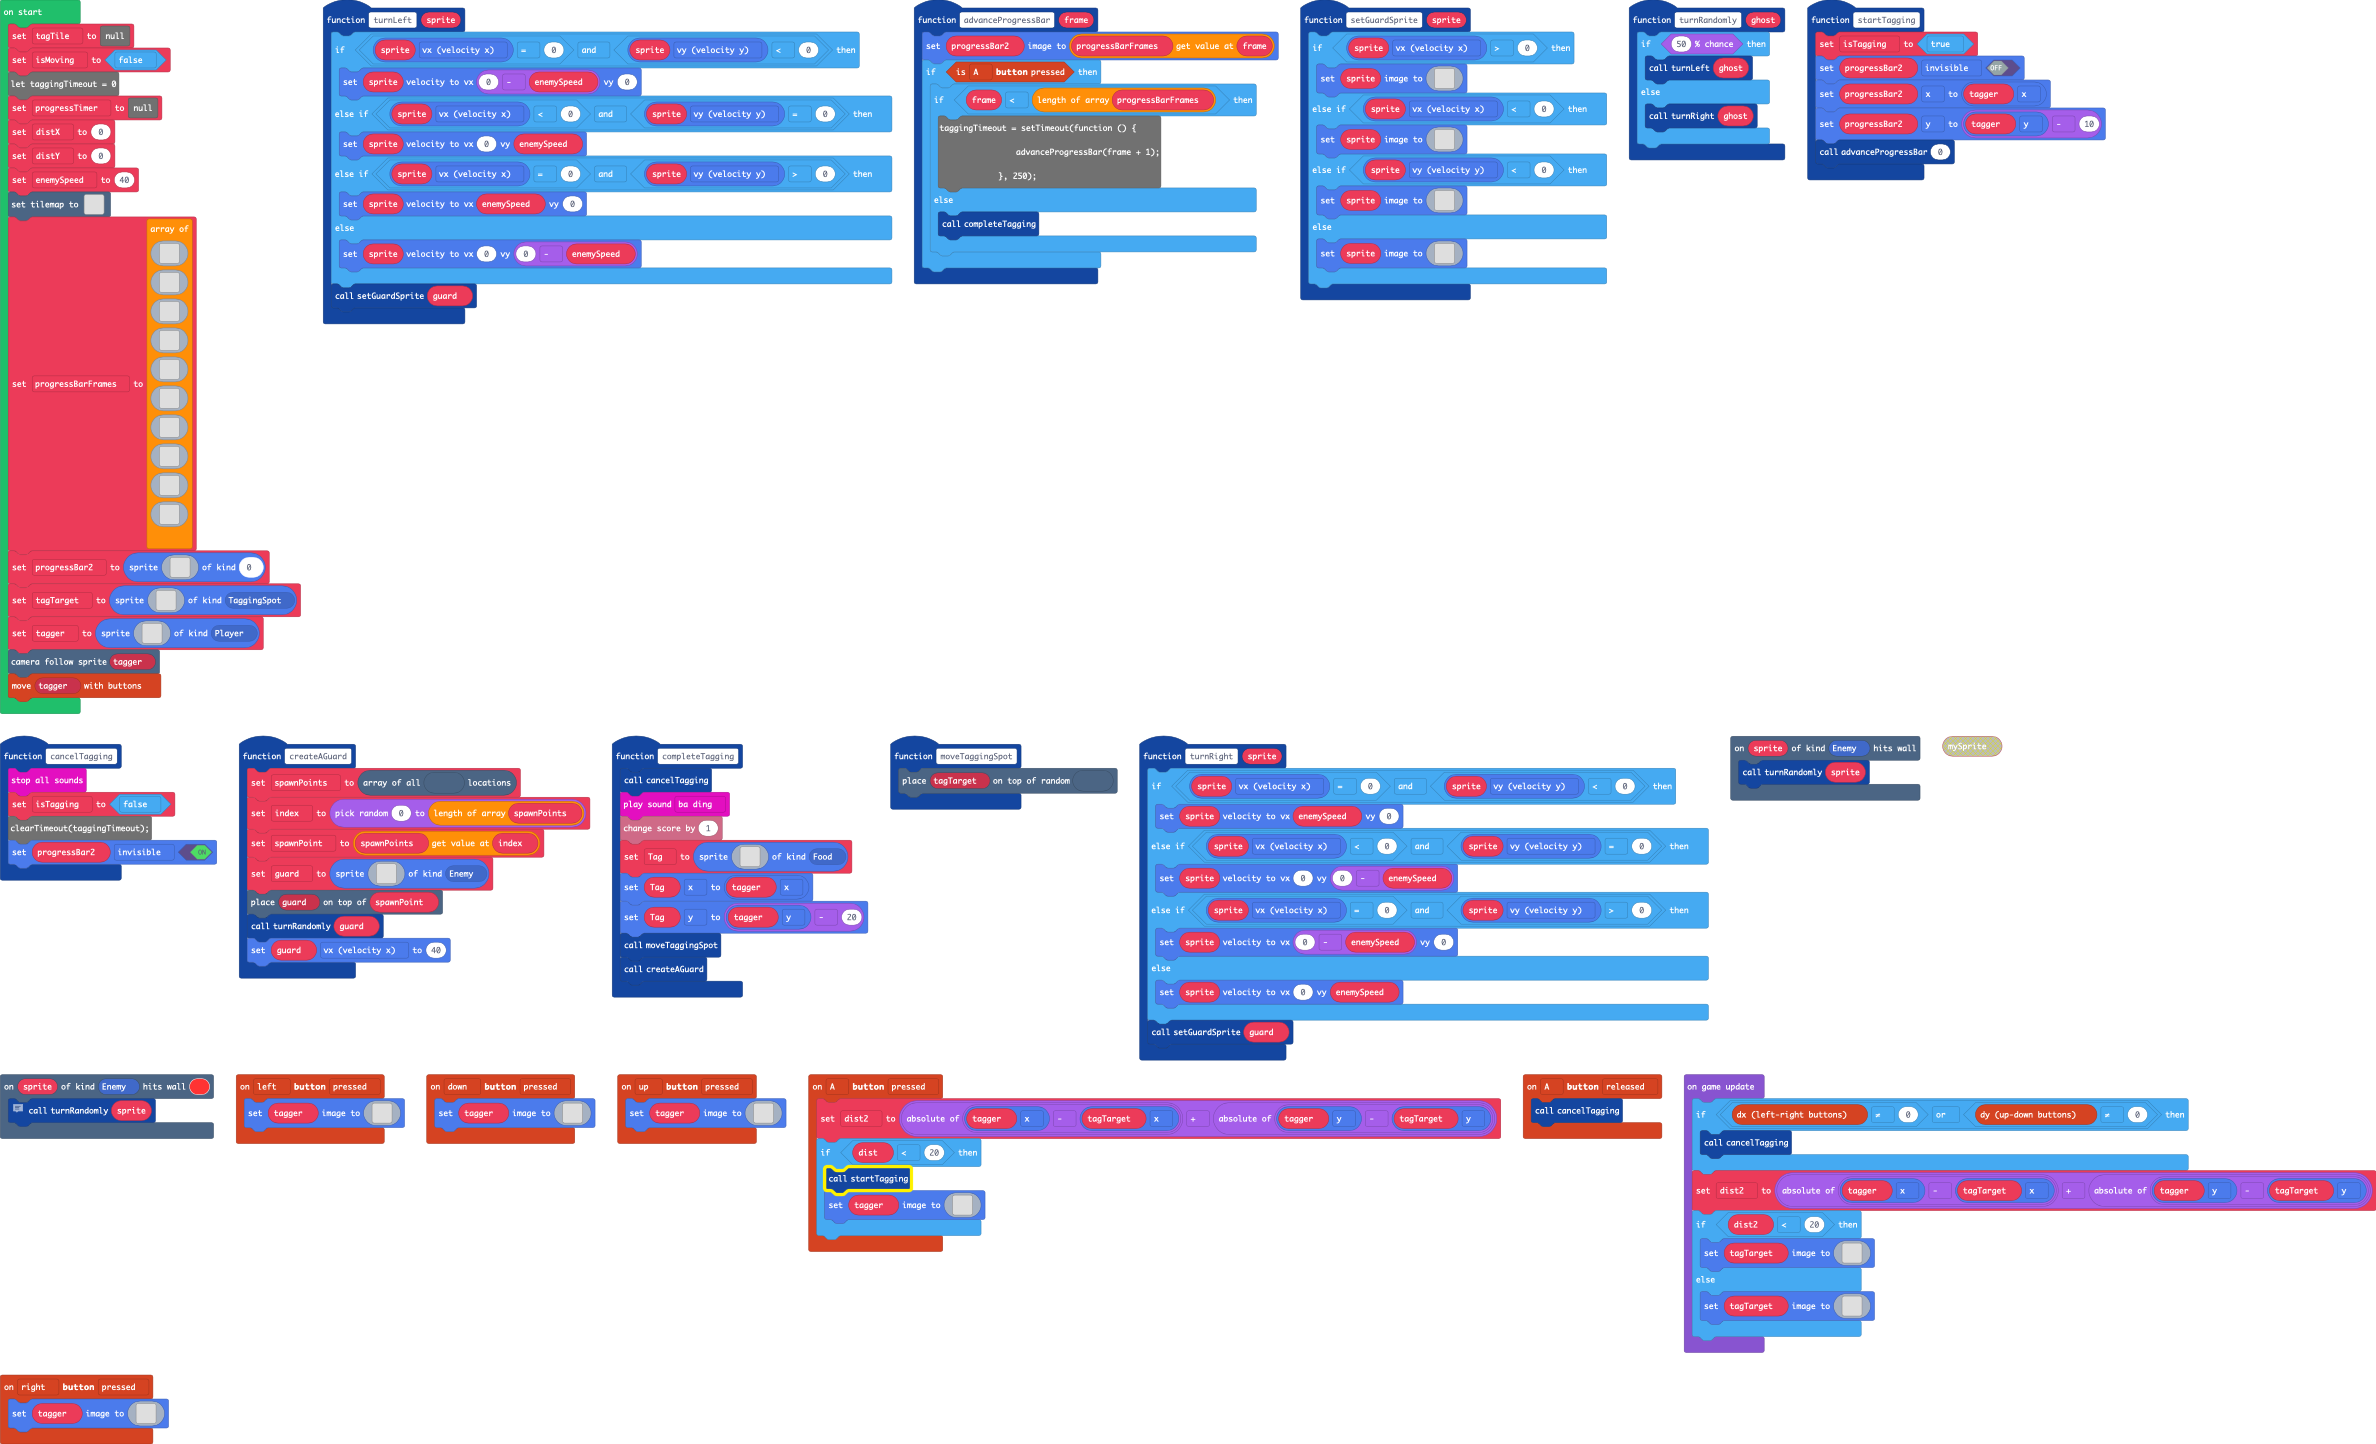
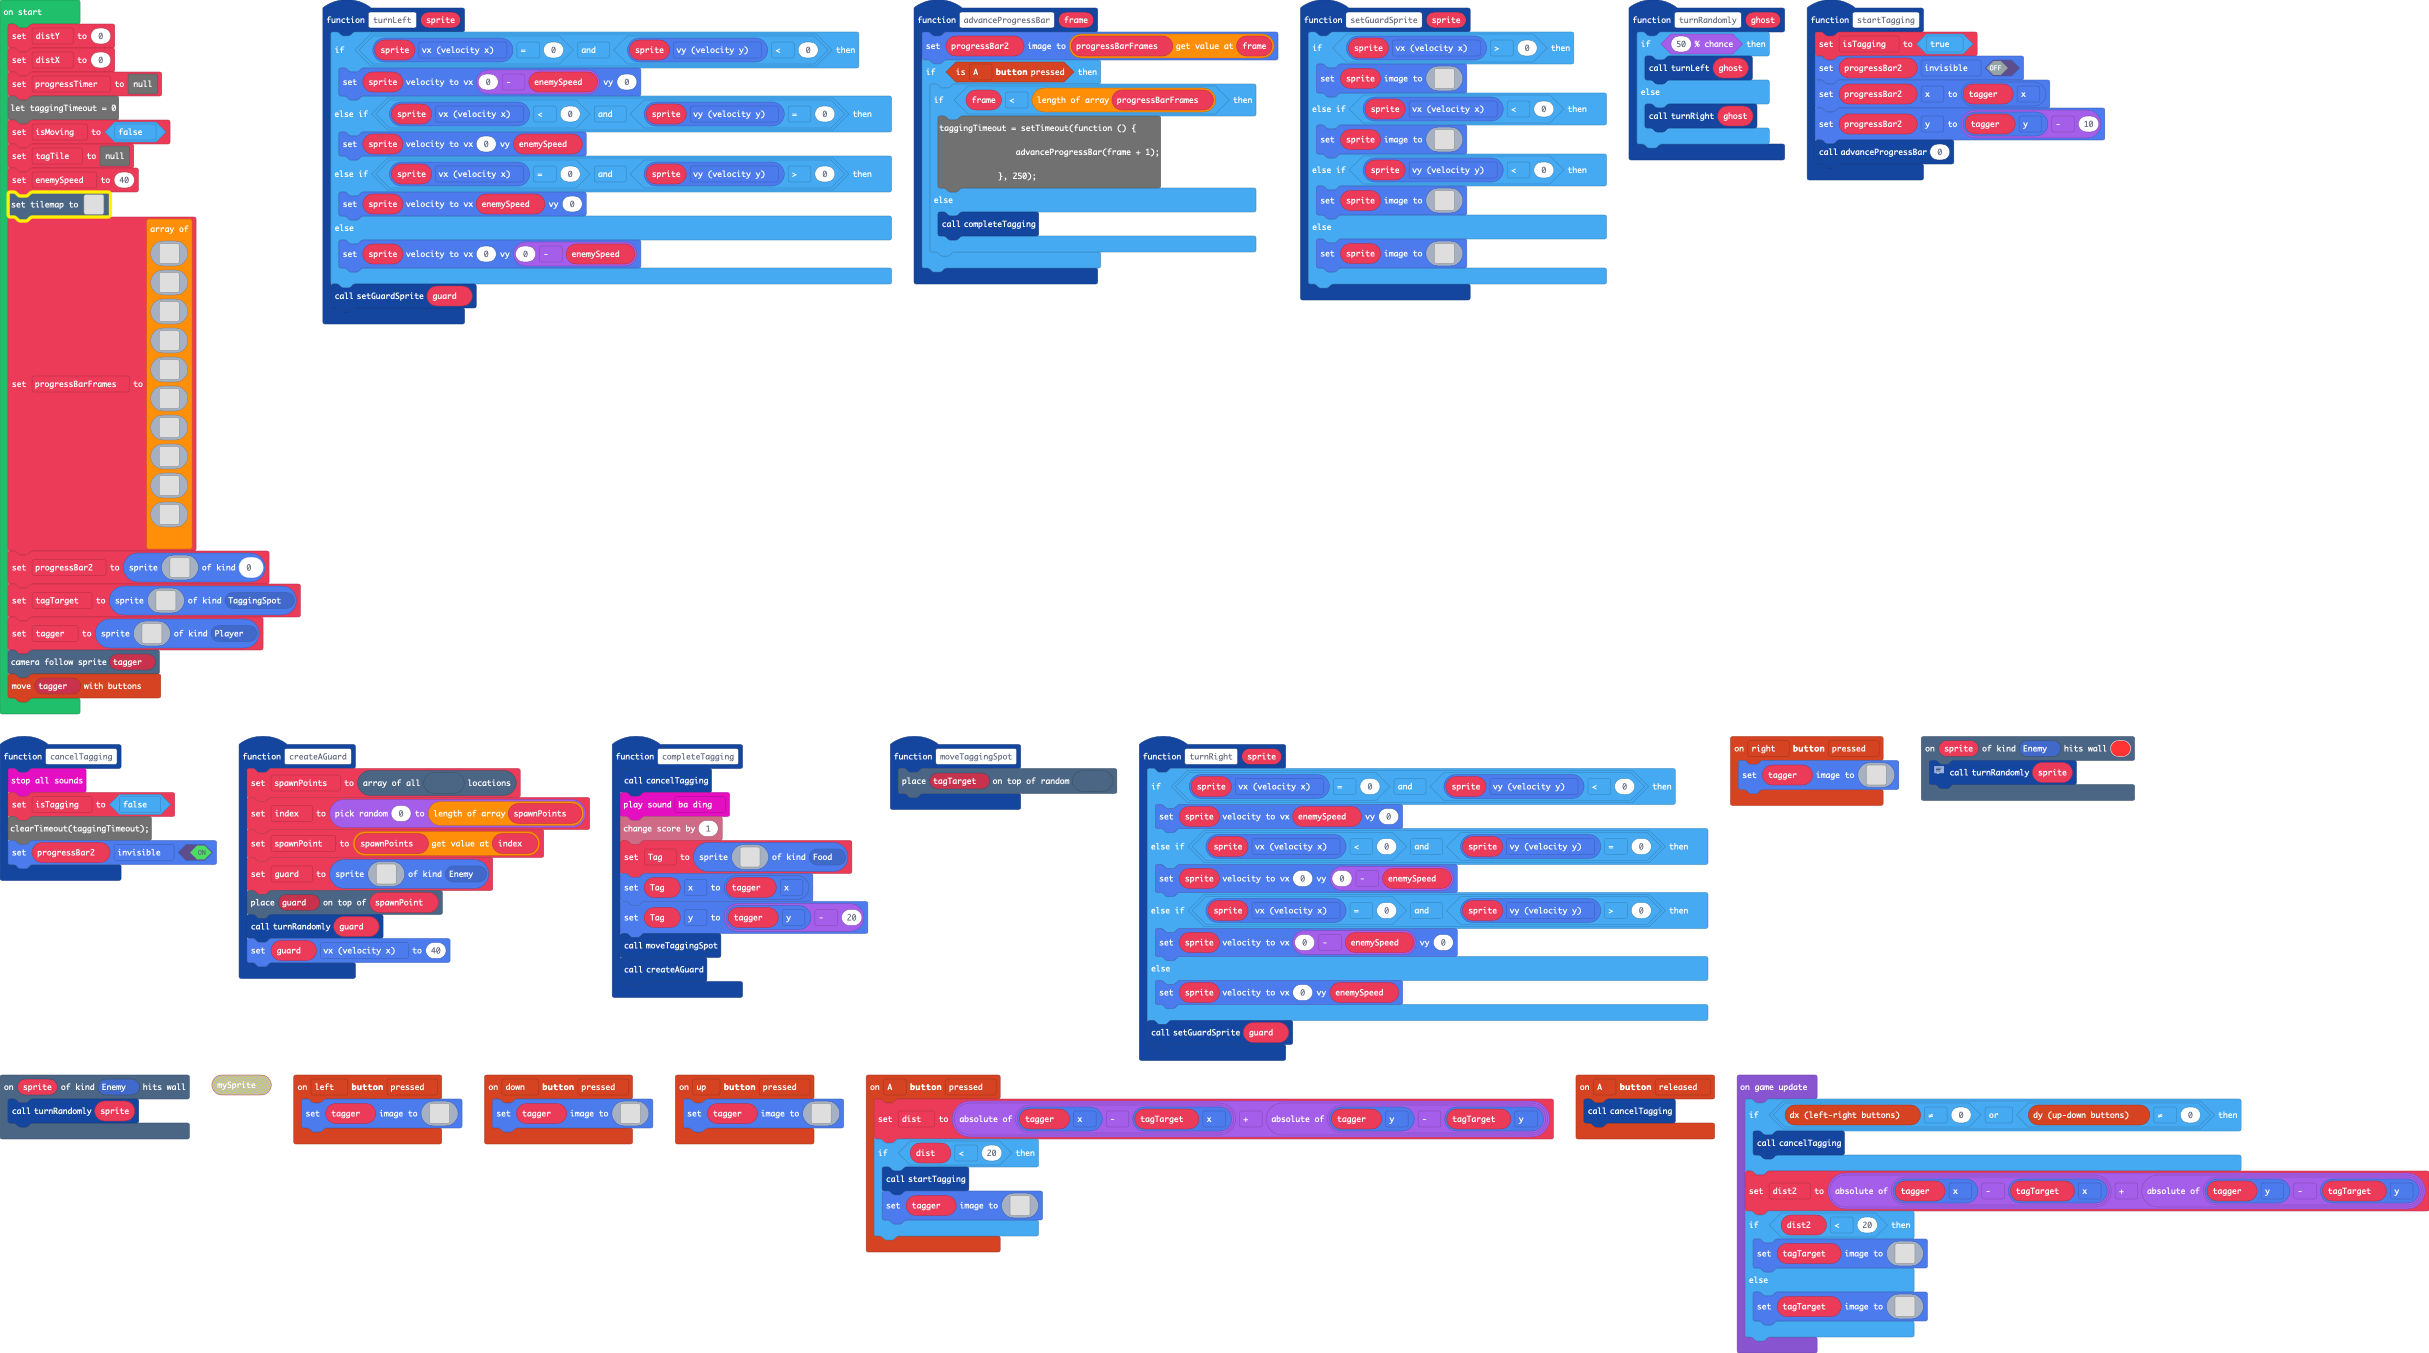
Improve the tile map

diff --git a/main.ts b/main.ts
@@ -239,10 +239,10 @@ d d d d d d d d d d d d d d d d
 7 7 7 7 7 7 7 7 7 7 7 7 7 7 7 7 
 7 7 7 7 7 7 7 7 7 7 7 7 7 7 7 7 
 7 7 7 7 7 7 7 7 7 7 7 7 7 7 7 7 
-f f f f f f f f f f f f f f f f 
-d d 6 6 d d 6 6 d d 6 6 d d 6 6 
-7 7 6 6 7 7 6 6 7 7 6 6 7 7 6 6 
 7 7 7 7 7 7 7 7 7 7 7 7 7 7 7 7 
+7 7 7 7 7 7 7 7 7 7 7 7 7 7 7 7 
+f f f f f f f f f f f f f f f f 
+7 7 6 6 7 7 6 6 7 7 6 6 7 7 6 6 
 7 7 7 7 7 7 7 7 7 7 7 7 7 7 7 7 
 7 7 7 7 7 7 7 7 7 7 7 7 7 7 7 7 
 7 7 7 7 7 7 7 7 7 7 7 7 7 7 7 7 
@@ -344,6 +344,25 @@ a 8 a 8 a 8 a 8 a 8 a 8 a 8 a 8
 . . . . . . . . . . . . . . . . 
 . . . . . . . . . . . . . . . . 
 . . . . . . . . . . . . . . . . 
+`
+    //% blockIdentity=images._tile
+    export const tile20 = img`
+7 7 7 7 7 7 7 7 7 7 7 7 7 7 7 7 
+7 7 7 7 7 7 7 7 7 7 7 7 7 7 7 7 
+f f f f f f f f f f f f f f f f 
+7 7 6 6 7 7 6 6 7 7 6 6 7 7 6 6 
+7 7 7 7 7 7 7 7 7 7 7 7 7 7 7 7 
+7 7 7 7 7 7 7 7 7 7 7 7 7 7 7 7 
+7 7 7 7 7 7 7 7 7 7 7 7 7 7 7 7 
+7 7 7 7 7 7 7 7 7 7 7 7 7 7 7 7 
+7 7 7 7 7 7 7 7 7 7 7 7 7 7 7 7 
+7 7 7 7 7 7 7 7 7 7 7 7 7 7 7 7 
+7 7 7 7 7 7 7 7 7 7 7 7 7 7 7 7 
+7 7 7 7 7 7 7 7 7 7 7 7 7 7 7 7 
+7 7 7 7 7 7 7 7 7 7 7 7 7 7 7 7 
+7 7 7 7 7 7 7 7 7 7 7 7 7 7 7 7 
+7 7 7 7 7 7 7 7 7 7 7 7 7 7 7 7 
+7 7 7 7 7 7 7 7 7 7 7 7 7 7 7 7 
 `
 }
 function turnLeft (sprite: Sprite) {
@@ -569,7 +588,7 @@ scene.onHitWall(SpriteKind.Enemy, function (sprite) {
     turnRandomly(sprite)
 })
 controller.A.onEvent(ControllerButtonEvent.Pressed, function () {
-    let dist = Math.abs(tagger.x - tagTarget.x) + Math.abs(tagger.y - tagTarget.y)
+    dist = Math.abs(tagger.x - tagTarget.x) + Math.abs(tagger.y - tagTarget.y)
     if (dist < 20) {
         startTagging()
         tagger.setImage(img`
@@ -652,6 +671,7 @@ controller.A.onEvent(ControllerButtonEvent.Released, function () {
     cancelTagging()
 })
 let dist2 = 0
+let dist = 0
 let Tag: Sprite = null
 let spawnPoint: tiles.Location = null
 let index = 0
@@ -663,15 +683,15 @@ let tagTarget: Sprite = null
 let progressBar2: Sprite = null
 let progressBarFrames: Image[] = []
 let enemySpeed = 0
-let tagTile = null
-let isMoving = false
-let taggingTimeout = 0
-let progressTimer = null
-let distX = 0
 let distY = 0
+let distX = 0
+let progressTimer = null
+let taggingTimeout = 0
+let isMoving = false
+let tagTile = null
 enemySpeed = 40
 tiles.setTilemap(tiles.createTilemap(
[2 lines of base64/hex data omitted]
             img`
 . . . . . . . . . . . . . . . . . . . . . . . . . . . . . . . . . . . . . . . . 
 . . . . . . . . . . . . . . . . . . . . . . . . . . . . . . . . . . . . . . . . 
@@ -696,13 +716,13 @@ tiles.setTilemap(tiles.createTilemap(
 . . . 2 . . . . 2 2 2 2 2 2 2 2 . . . . 2 . . . . . . . . . . . . . . . . . . . 
 . . . 2 . . . . 2 2 2 2 2 2 2 2 . . . . 2 . . . . . . . . . . . . . . . . . . . 
 . . . 2 . . . . . . . . . . . . . . . . 2 . . . . . . . . . . . . . . . . . . . 
+. . . 2 . . . . . . . . . . . . . . . . 2 . . . . . . . . . . . . . . . . . . . 
+. . . 2 2 2 2 2 2 2 2 2 2 2 2 2 2 2 2 2 2 . . . . . . . . . . . . . . . . . . . 
 . . . 2 2 2 2 2 2 2 2 2 2 2 2 2 2 2 2 2 2 . . . . . . . . . . . . . . . . . . . 
 . . . . . . . . . . . . . . . . . . . . . . . . . . . . . . . . . . . . . . . . 
 . . . . . . . . . . . . . . . . . . . . . . . . . . . . . . . . . . . . . . . . 
-. . . . . . . . . . . . . . . . . . . . . . . . . . . . . . . . . . . . . . . . 
-. . . . . . . . . . . . . . . . . . . . . . . . . . . . . . . . . . . . . . . . 
 `,
-            [myTiles.tile0,sprites.builtin.forestTiles23,myTiles.tile1,sprites.castle.tilePath5,sprites.builtin.brick,sprites.vehicle.roadVertical,sprites.vehicle.roadHorizontal,sprites.dungeon.doorOpenNorth,sprites.castle.tileGrass1,sprites.castle.tilePath1,sprites.castle.tileGrass2,sprites.castle.tileGrass3,sprites.castle.tilePath2,sprites.castle.tilePath7,sprites.castle.tilePath4,sprites.castle.tilePath8,sprites.builtin.forestTiles24,myTiles.tile3,myTiles.tile4,myTiles.tile5,myTiles.tile6,myTiles.tile7,myTiles.tile8,myTiles.tile9,myTiles.tile10,myTiles.tile11,sprites.builtin.coral2,myTiles.tile12,sprites.castle.tilePath6,myTiles.tile13,myTiles.tile14,myTiles.tile16,myTiles.tile17,myTiles.tile18,myTiles.tile19],
+            [myTiles.tile0,sprites.builtin.forestTiles23,myTiles.tile1,sprites.castle.tilePath5,sprites.builtin.brick,sprites.vehicle.roadVertical,sprites.vehicle.roadHorizontal,sprites.dungeon.doorOpenNorth,sprites.castle.tileGrass1,sprites.castle.tilePath1,sprites.castle.tileGrass2,sprites.castle.tileGrass3,sprites.castle.tilePath2,sprites.castle.tilePath7,sprites.castle.tilePath4,sprites.castle.tilePath8,sprites.builtin.forestTiles24,myTiles.tile3,myTiles.tile4,myTiles.tile5,myTiles.tile6,myTiles.tile7,myTiles.tile8,myTiles.tile9,myTiles.tile10,myTiles.tile11,sprites.builtin.coral2,myTiles.tile12,sprites.castle.tilePath6,myTiles.tile13,myTiles.tile14,myTiles.tile16,myTiles.tile17,myTiles.tile18,myTiles.tile19,myTiles.tile20,sprites.castle.tilePath3,sprites.castle.tilePath9],
             TileScale.Sixteen
         ))
 progressBarFrames = [img`
